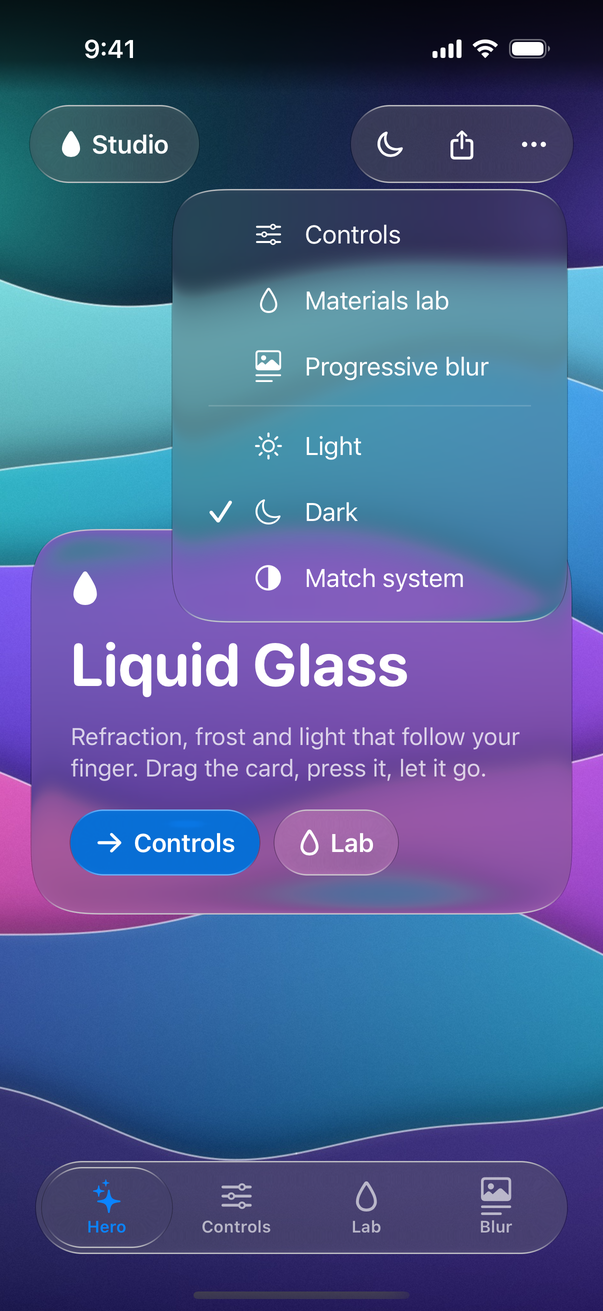
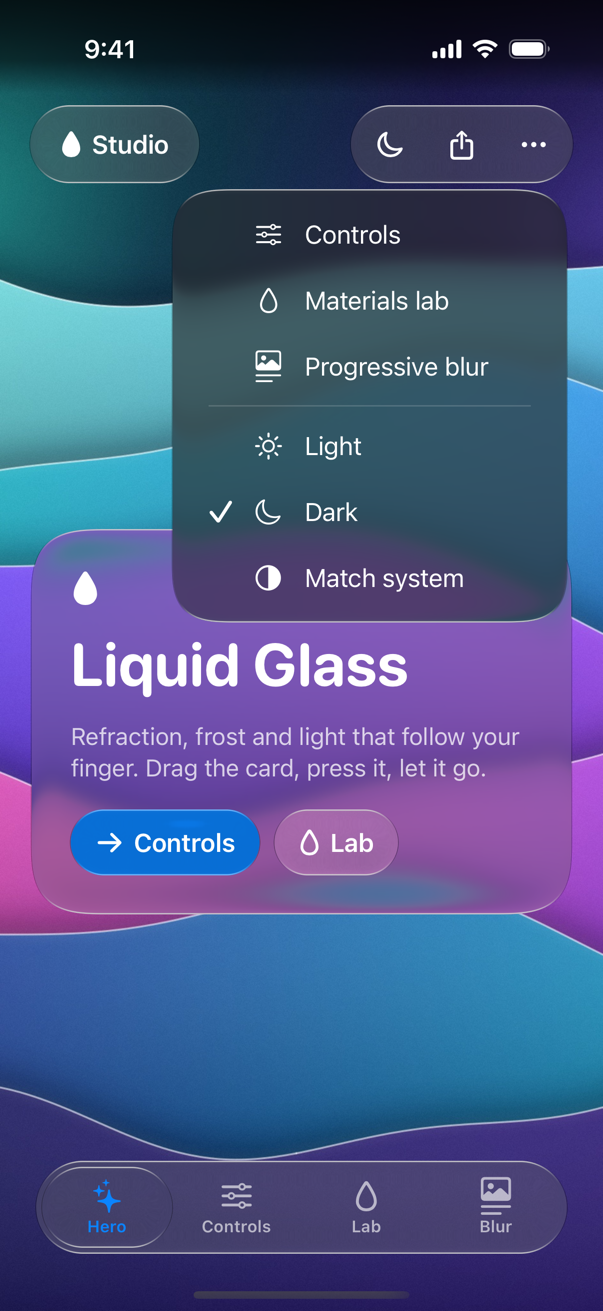
Docs: the Apple guide and the SwiftUI skill describe the menu panels' legibility backing: the open panel's glass mixes halfway toward #F5F5F7 light or #1C1C1E dark (GlassOptics.menuLegibility), fading in as it opens, so menu text keeps at least 5:1 over any backdrop (5.09:1 white over white in dark,

Changed region(s): [[0.2687, 0.0915, 0.9552, 0.4882], [0.1791, 0.0305, 0.209, 0.061]]

diff --git a/docs/apple.md b/docs/apple.md
@@ -253,9 +253,9 @@ GlassMenu("Appearance", systemImage: "circle.lefthalf.filled") {
 }
 ```
 
-![A Regular glass menu grown out of its trigger](images/apple/ios-menu.png)
+![A Regular glass menu with its legibility backing, grown out of its trigger](images/apple/ios-menu.png)
 
-The trigger is a `GlassButton` (an icon-only trigger is the 44 pt circle on iOS, 28 pt on macOS); `appearance` and `tint` apply to the trigger and the panel. Items with `checked:` draw a checkmark in a leading column when `true` (VoiceOver reads them as selected); once any item of a panel has `checked:`, every item of that panel keeps the column, so icons and titles line up as in a system menu; disabled items dim and the arrow keys skip them. Opening morphs the trigger's glass into a Regular glass panel (radius 28) on the morph spring while the items condense out of a blur (an unset refraction is the open panel's throughout); closing reverses it. The panel opens below the trigger with trailing edges aligned, flips above when it does not fit below but fits above, and keeps 8 pt from the scene's left and right edges; it never scrolls, so a menu that fits on neither side runs past the bottom (keep menus short). Items highlight with the foreground color at 8%. Tap outside, press Escape, or choose an item to dismiss; the up and down arrows and Return navigate. The panel draws in the scene's overlay, above the rest of the foreground. Outside a `GlassScene`, `GlassMenu` falls back to the system `Menu` with the same items.
+The trigger is a `GlassButton` (an icon-only trigger is the 44 pt circle on iOS, 28 pt on macOS); `appearance` and `tint` apply to the trigger and the panel. Items with `checked:` draw a checkmark in a leading column when `true` (VoiceOver reads them as selected); once any item of a panel has `checked:`, every item of that panel keeps the column, so icons and titles line up as in a system menu; disabled items dim and the arrow keys skip them. Opening morphs the trigger's glass into a Regular glass panel (radius 28) on the morph spring while the items condense out of a blur (an unset refraction is the open panel's throughout); closing reverses it. The panel's glass mixes halfway toward a solid backing, `#F5F5F7` light and `#1C1C1E` dark (`GlassOptics.menuLegibility`, 0.5, [`spec/OPTICS.md` §3](../spec/OPTICS.md#legibility-backing-menus)), which fades in as the panel opens: menu text keeps at least 5:1 contrast over any backdrop (5.09:1 for white labels over white in dark appearance, where Regular glass alone gives 1.8:1, and 7.15:1 for `#111113` over black in light), while the panel still refracts and frosts what is behind it at half strength. No other surface has the backing. The panel opens below the trigger with trailing edges aligned, flips above when it does not fit below but fits above, and keeps 8 pt from the scene's left and right edges; it never scrolls, so a menu that fits on neither side runs past the bottom (keep menus short). Items highlight with the foreground color at 8%. Tap outside, press Escape, or choose an item to dismiss; the up and down arrows and Return navigate. The panel draws in the scene's overlay, above the rest of the foreground. Outside a `GlassScene`, `GlassMenu` falls back to the system `Menu` with the same items.
 
 ### GlassProgressiveBlur
 
@@ -313,6 +313,8 @@ let params = GlassOptics.shapeParameters(width: 200, height: 64, radius: .capsul
 let field = GlassOptics.shapeField(x: 90, y: 0, width: 200, height: 64, extent: params.extent, exponent: params.exponent)
 let travel = GlassOptics.defaultRefraction(width: 200, height: 64)  // 48: what the surface uses unset
 let offset = GlassOptics.refractionOffset(distance: field.distance, nx: field.nx, ny: field.ny, refraction: travel)
+let glass = GlassOptics.materialColor(SIMD3(1, 1, 1), material: .regular, dark: true)
+let menu = GlassOptics.legibilityColor(glass, dark: true, amount: GlassOptics.menuLegibility)   // the menu panel's backing
 
 var state = GlassSpring.State(value: 0, target: 1)
 state = GlassSpring.release.step(state, dt: 1 / 60)     // closed form, frame-rate independent
@@ -330,7 +332,7 @@ VStack { … }
     .glassMotion(.reduced)
 ```
 
-- **Material.** `.clear` refracts sharply with a light tone curve. `.regular` frosts the backdrop (a σ 7.33 blur brightened, or deepened in dark appearance, by a wide fill blur) and keeps text legible over anything. Menus default to `.regular`.
+- **Material.** `.clear` refracts sharply with a light tone curve. `.regular` frosts the backdrop (a σ 7.33 blur brightened, or deepened in dark appearance, by a wide fill blur) and keeps text legible over busy content. Menus default to `.regular` and add the legibility backing, so menu text keeps at least 5:1 over any backdrop, even plain white or black.
 - **Appearance.** `.automatic` follows the color scheme. `.light` and `.dark` force the tone curves and rim strength, and set the content's color scheme, so `.primary` and `.secondary` adapt.
 - **Radius.** Numbers are continuous-corner radii; `.capsule` and `.circle` round fully.
 - **Refraction.** Points of optical travel at the rim; 0 turns refraction off. Unset on the surface, the scene and the environment, it follows the surface's resting size, `min(60, 0.75 × shorter side)` (`GlassOptics.defaultRefraction(width:height:)`, [`spec/OPTICS.md` §2](../spec/OPTICS.md#2-refraction)): cards and panels get the full 60, while a 44 pt button travels 33, a 52 pt toolbar 39 and a 62 pt tab bar 46.5, so small controls never pull in backdrop from far outside their outline. It is measured before press and stretch, so a press doesn't change it, and the tab lens takes the size of the tab it rests at. A value you set, on the surface, with `GlassScene(refraction:)` or with `.glassRefraction(_:)`, is used as given at every size; `.glassRefraction(nil)` restores the size-based default. The slider and switch lenses use 5 and 7.75. Small controls (shorter than the 20 pt bevel) refract across their whole face.
@@ -436,9 +438,9 @@ xcodebuild build -project platforms/apple/Studio/LiquidGlassStudio.xcodeproj -sc
 platforms/apple/scripts/package-macos.sh DerivedData/Build/Products/Release
 ```
 
-- `OpticsVectorTests` checks the Swift port against every category of [`spec/vectors.json`](../spec/vectors.json) at 1e-4: shape parameters, all 640 field samples, the outline, edge profile, default refraction, refraction offset, tone curves, material color, tint, frost, all 328 rim samples, all 57 composited glass pixels, the six springs, rubber band, stretch limit, press scale, glow and progressive weights.
+- `OpticsVectorTests` checks the Swift port against every category of [`spec/vectors.json`](../spec/vectors.json) at 1e-4: shape parameters, all 640 field samples, the outline, edge profile, default refraction, refraction offset, tone curves, material color, tint, frost, the legibility backing of menus (the backing colors, the mix and the worst-case label contrast, 5.09:1 and 7.15:1), all 328 rim samples, all 63 composited glass pixels (six of them menu glass with the backing), the six springs, rubber band, stretch limit, press scale, glow and progressive weights.
 - `ShaderVectorTests` runs the Metal functions the glass shader uses (`LiquidGlassCore.h`) on the GPU in a compute kernel and checks the same vectors at the GPU tolerance, 2e-3.
-- `RenderTests` renders real `GlassScene`s through SwiftUI and compares every pixel of a surface (and two around it) with the model: Clear and Regular, light and dark, tinted, at 1x and 2x, off center left to right and right to left, over layered, text, narrow and empty backdrops, under an ancestor's clip, the Reduce Transparency and no-scene fallbacks and degenerate sizes, and the refraction by size and its precedence (surface, environment, scene). It also checks that Regular glass frosts text smoothly (also over a `GlassScrollView`), that backdrop copies render as copies, that labels follow forced appearances and tints, and that bars, menus and progressive blurs mirror right to left.
+- `RenderTests` renders real `GlassScene`s through SwiftUI and compares every pixel of a surface (and two around it) with the model: Clear and Regular, light and dark, tinted, at 1x and 2x, off center left to right and right to left, over layered, text, narrow and empty backdrops, under an ancestor's clip, the Reduce Transparency and no-scene fallbacks and degenerate sizes, and the refraction by size and its precedence (surface, environment, scene). It also checks that Regular glass frosts text smoothly (also over a `GlassScrollView`), that backdrop copies render as copies, that labels follow forced appearances and tints, that menu labels keep at least 4.5:1 on dark glass over white and on light glass over black (where a Regular surface without the backing does not), and that bars, menus and progressive blurs mirror right to left.
 - `BehaviorTests` covers what isn't a picture: the tab lens and switch thumb under drags, right to left and reduced motion, the lens's resting size and how refraction resolves, the press glow spring, menu keyboard navigation, drag intent (sideways drags commit, vertical ones scroll), `GlassScrollPosition` after cancelled drags, keyboard and trackpad momentum, label contrast on tints, control sizes (icon menu circles, hidden-label switches, bars at accessibility sizes and in tall rows) and the initializers.
 - `StudioUITests` drives the demo: navigation, menus (open, outside tap, choose), the stories filter, switches and sliders inside a scroll view, scrolls that start on a glass button, a slider and a tab bar (the value and the selection stay), `GlassScrollView` scrolling and a held press-and-drag.
 

diff --git a/plugins/liquid-glass/skills/liquid-glass-swiftui/references/api.md b/plugins/liquid-glass/skills/liquid-glass-swiftui/references/api.md
@@ -676,13 +676,16 @@ Toggle("Bluetooth", isOn: $bluetooth).toggleStyle(GlassSwitchStyle())
 
 A menu whose trigger is a `GlassButton` (a plain item inside a `GlassToolbar`); `appearance` and `tint` apply to the
 trigger and the panel. Opening morphs the trigger's glass into a Regular panel on the morph spring while the items
-condense out of a blur; closing reverses it. The panel opens below the trigger with trailing edges aligned (the left
-edges, right to left) and 8 pt from it, flips above when it does not fit below but fits above, and keeps 8 pt from
-the scene's left and right edges. It never scrolls: a menu that fits on neither side runs past the scene's bottom
-edge. Items highlight with the foreground at 8%. Tap outside, press Escape (or the VoiceOver escape gesture), or
-choose an item to dismiss; up/down arrows and Return navigate, skipping disabled items. The panel draws in the
-enclosing scene's overlay; outside a `GlassScene` the menu falls back to the system `Menu` with the same items
-(checked items become toggles there).
+condense out of a blur; closing reverses it. The panel's glass mixes halfway (`GlassOptics.menuLegibility`) toward a
+solid backing, `#F5F5F7` light and `#1C1C1E` dark, which fades in as it opens: menu text keeps at least 5:1 contrast
+over any backdrop (5.09:1 for white labels over white in dark appearance, 7.15:1 for `#111113` over black in light)
+while the panel still refracts and frosts at half strength. No other surface has the backing. The panel opens below
+the trigger with trailing edges aligned (the left edges, right to left) and 8 pt from it, flips above when it does
+not fit below but fits above, and keeps 8 pt from the scene's left and right edges. It never scrolls: a menu that
+fits on neither side runs past the scene's bottom edge. Items highlight with the foreground at 8%. Tap outside, press
+Escape (or the VoiceOver escape gesture), or choose an item to dismiss; up/down arrows and Return navigate, skipping
+disabled items. The panel draws in the enclosing scene's overlay; outside a `GlassScene` the menu falls back to the
+system `Menu` with the same items (checked items become toggles there).
 
 ```swift
 public struct GlassMenu<Label: View, Content: View>: View {
@@ -967,6 +970,7 @@ public enum GlassOptics {
     public static let continuousExponent = 3.26     // Superellipse exponent of a continuous corner.
     public static let luma = SIMD3<Double>(0.213, 0.715, 0.072)   // SVG saturate luma weights.
     public static let frostSigma = 7.33             // σ of the Regular material's frost blur.
+    public static let menuLegibility = 0.5          // Mix toward the legibility backing on menu panels (0 elsewhere).
     public static let progressiveLevels = 6         // Blur levels above the sharp backdrop.
 
     // Result types (public fields, no public initializers).
@@ -995,6 +999,8 @@ public enum GlassOptics {
     public static func tintColor(_ c: SIMD3<Double>, tint: SIMD3<Double>, material: GlassMaterial) -> SIMD3<Double>
     public static func fillSigma(dark: Bool) -> Double                          // 23 light, 21.8 dark
     public static func frostColor(frost: SIMD3<Double>, fill: SIMD3<Double>, dark: Bool) -> SIMD3<Double>
+    public static func legibilityBacking(dark: Bool) -> SIMD3<Double>           // #F5F5F7 light, #1C1C1E dark
+    public static func legibilityColor(_ c: SIMD3<Double>, dark: Bool, amount: Double) -> SIMD3<Double>  // mix(c, backing, amount)
 
     // Rim light (premultiplied RGBA)
     public static func rimOverlay(distance d: Double, nx: Double, ny: Double, dark: Bool, pixel: Double, tint: SIMD3<Double>? = nil) -> SIMD4<Double>
@@ -1003,7 +1009,7 @@ public enum GlassOptics {
     public static func glassPixel(
         x: Double, y: Double, width: Double, height: Double, radius: GlassRadius,
         material: GlassMaterial = .clear, dark: Bool = false, refraction: Double = defaultRefraction,
-        tint: SIMD3<Double>? = nil, pixel: Double = 1.0 / 3.0, nested: Bool = false,
+        tint: SIMD3<Double>? = nil, pixel: Double = 1.0 / 3.0, nested: Bool = false, legibility: Double = 0,
         sample: (_ dx: Double, _ dy: Double) -> SIMD4<Double>, base: SIMD4<Double>
     ) -> SIMD4<Double>
 
@@ -1045,6 +1051,7 @@ Fixed by the library (sizes scale with Dynamic Type where noted).
 | `GlassSlider` height, thumb, lifted growth per side, lens refraction | 44, 36 × 24, 5 × 4, 5 | 28, 20 × 16, 2.5 × 2, 5 |
 | `GlassSwitch` track, thumb, lifted growth per side, lens refraction | 63 × 28, 37 × 24, 10 × 6.5, 7.75 | 54 × 24, 32 × 20, 9 × 5.5, 7.75 |
 | `GlassMenu` item height, padding, panel inset, min width, check column | 44, 16, 8, 220, 16 | 28, 8, 4, 160, 12 |
+| `GlassMenu` panel legibility backing (mix, light, dark) | 0.5, `#F5F5F7`, `#1C1C1E`; menu text at 5:1 or more over any backdrop | same |
 | Highlight of pressed / hovered / focused items | foreground at 8% | foreground at 8% |
 | Glass foreground color (surface and button content, bar and menu items) | `#111113` light, white dark; on a tint, whichever of the two contrasts more | same |
 

diff --git a/plugins/liquid-glass/skills/liquid-glass-swiftui/SKILL.md b/plugins/liquid-glass/skills/liquid-glass-swiftui/SKILL.md
@@ -303,7 +303,8 @@ GlassScene {
 **Materials, appearance, tint and shape**
 
 - Defaults: material `.clear`, appearance `.automatic`, refraction by size, motion `.full`. Menu panels are Regular
-  unless you pass a material.
+  unless you pass a material, and their glass mixes halfway toward a solid backing (`#F5F5F7` light, `#1C1C1E` dark),
+  so menu text keeps at least 5:1 contrast over any backdrop, even plain white or black; no other surface has it.
 - Clear over imagery; Regular for compact panels with short text (quick settings, now playing), menus and any bar
   over scrolling text (`GlassProgressiveBlur` blurs only the backdrop; glass above it still refracts the sharp text).
 - A surface's `material` applies to that surface only; it does not cascade to controls inside it. Set defaults for a
@@ -350,9 +351,10 @@ GlassScene {
   `GlassButton` beside the toolbar. Do not wrap a toolbar in a `GlassSurface` or give its items `.liquidGlass`.
 - Keep toolbars, tab bars and menus in the scene's foreground: outside a scene they draw the fallback material and a
   `GlassMenu` falls back to the system `Menu`. Let the scene cover the window so menus have room.
-- A menu panel opens below its trigger with trailing edges aligned, flips above when it does not fit below but fits
-  above, and keeps 8 pt from the scene's left and right edges. It never scrolls: a menu that fits on neither side
-  runs past the scene's bottom edge. Keep menus short (about 8 items or fewer); there are no submenus (a
+- Menu items need no backing of your own: the panel's legibility backing keeps their text at 5:1 or more over any
+  backdrop. A menu panel opens below its trigger with trailing edges aligned, flips above when it does not fit below
+  but fits above, and keeps 8 pt from the scene's left and right edges. It never scrolls: a menu that fits on neither
+  side runs past the scene's bottom edge. Keep menus short (about 8 items or fewer); there are no submenus (a
   `GlassMenu` inside a panel never opens).
 - Put only `GlassMenuItem`, `GlassMenuDivider` and `ForEach` of them in a menu. The panel renders in the scene's
   overlay with the scene's environment, so `.environment(model)`, `.glassAppearance`, `.disabled` or `.font` set

diff --git a/plugins/liquid-glass/skills/liquid-glass-swiftui/references/recipes.md b/plugins/liquid-glass/skills/liquid-glass-swiftui/references/recipes.md
@@ -349,10 +349,11 @@ struct SettingsCard: View {
 Two standalone menus at the top trailing corner: a titled trigger that names the current choice, whose items check
 it with `checked:` (a checkmark column, read as selected by VoiceOver), and an icon-only one (the same circle as a
 `GlassButton(icon:)`) with an item disabled until there is a selection. Both sit in one foreground container, so
-either panel draws above everything else. Opening morphs the trigger's glass into a Regular panel (radius 28); it
-opens below the trigger with trailing edges aligned, flips above when it does not fit below, and keeps 8 pt from the
-scene's left and right edges. The panel never scrolls, so keep menus short. Tap outside, press Escape or choose an
-item to close it.
+either panel draws above everything else. Opening morphs the trigger's glass into a Regular panel (radius 28) mixed
+halfway toward a solid backing, so its items keep at least 5:1 contrast over any backdrop; it opens below the
+trigger with trailing edges aligned, flips above when it does not fit below, and keeps 8 pt from the scene's left
+and right edges. The panel never scrolls, so keep menus short. Tap outside, press Escape or choose an item to close
+it.
 
 ```swift
 import LiquidGlass
